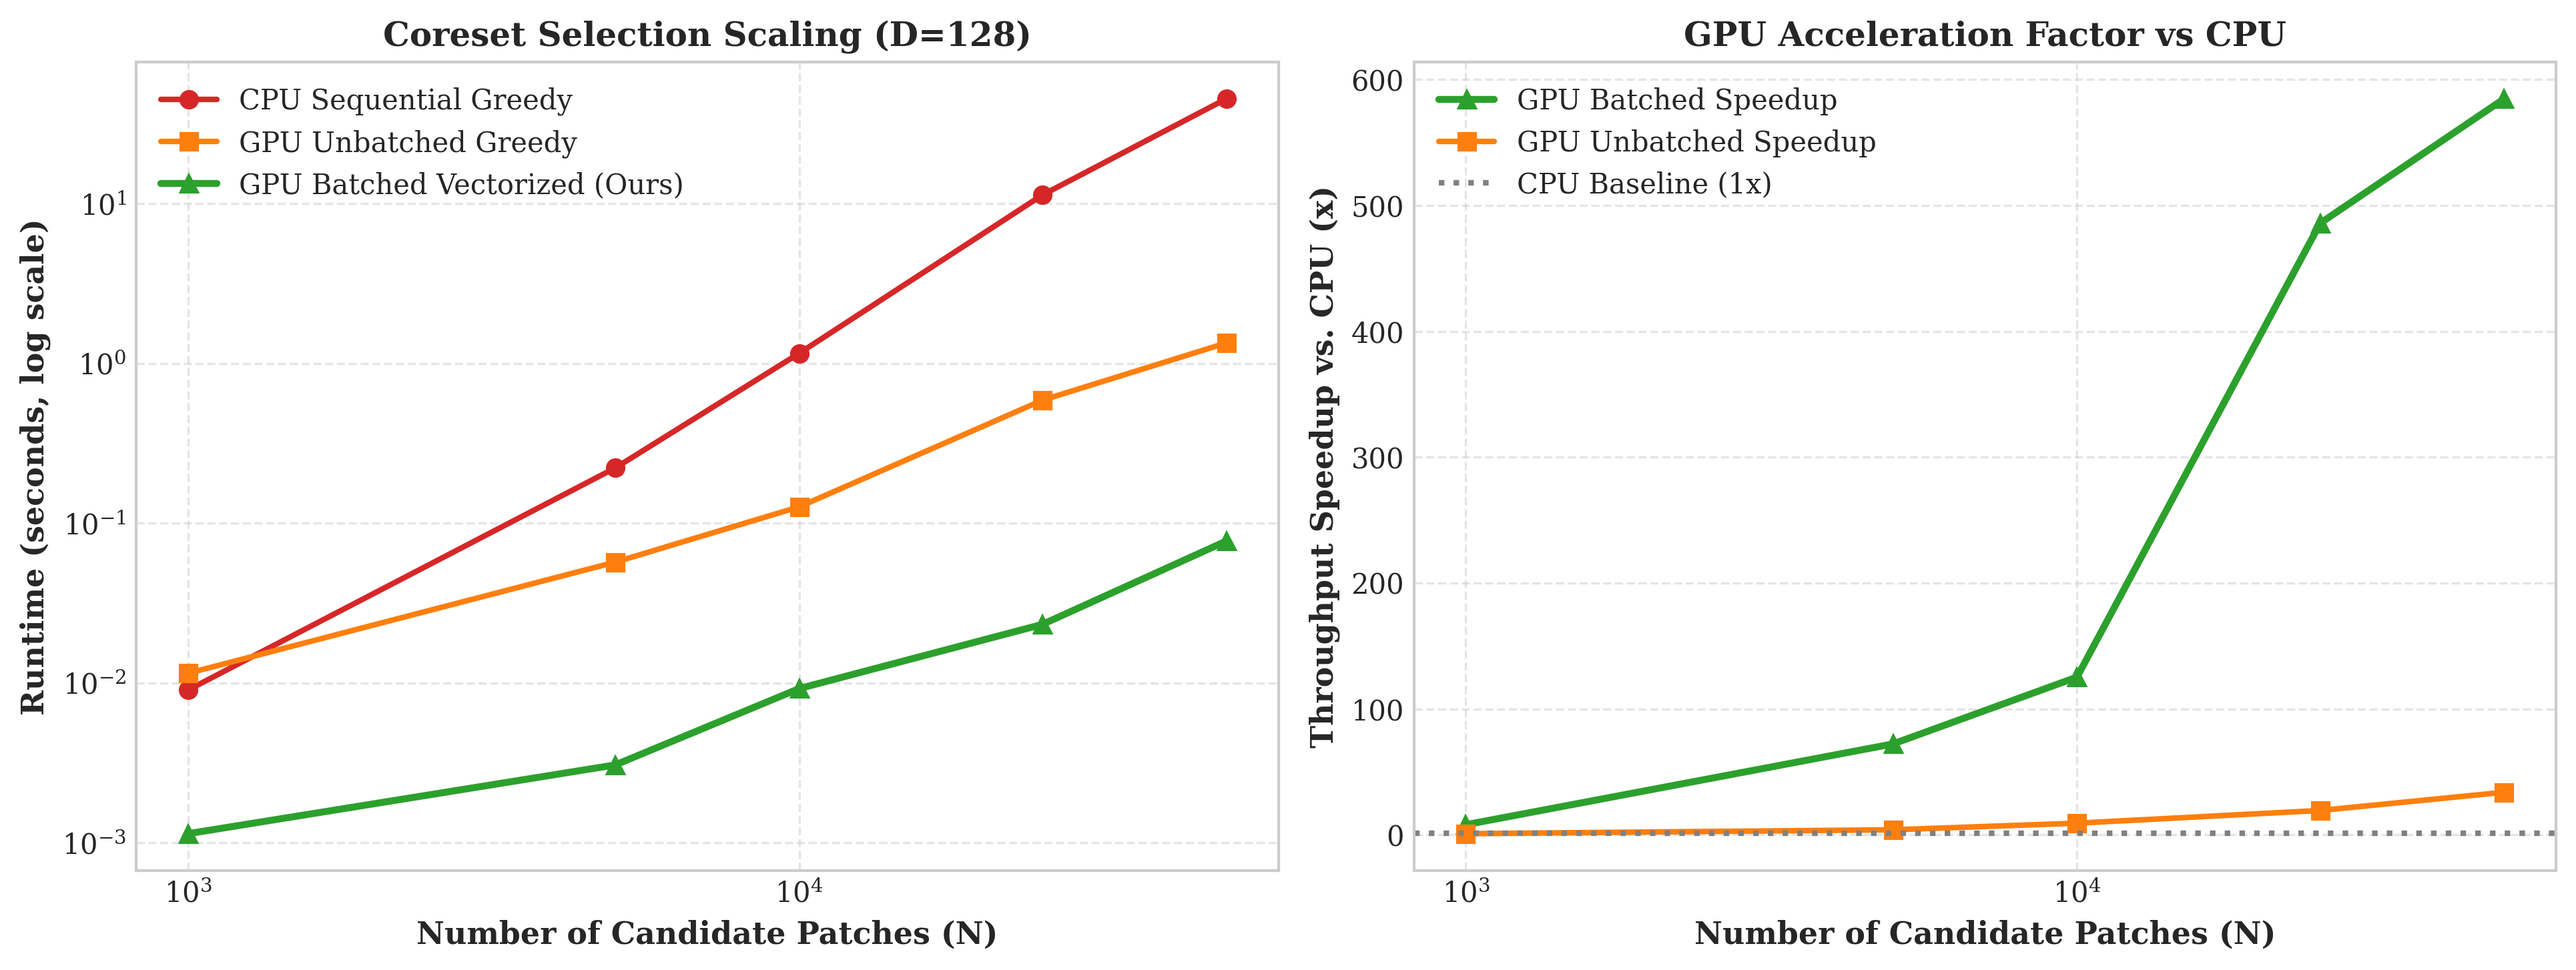
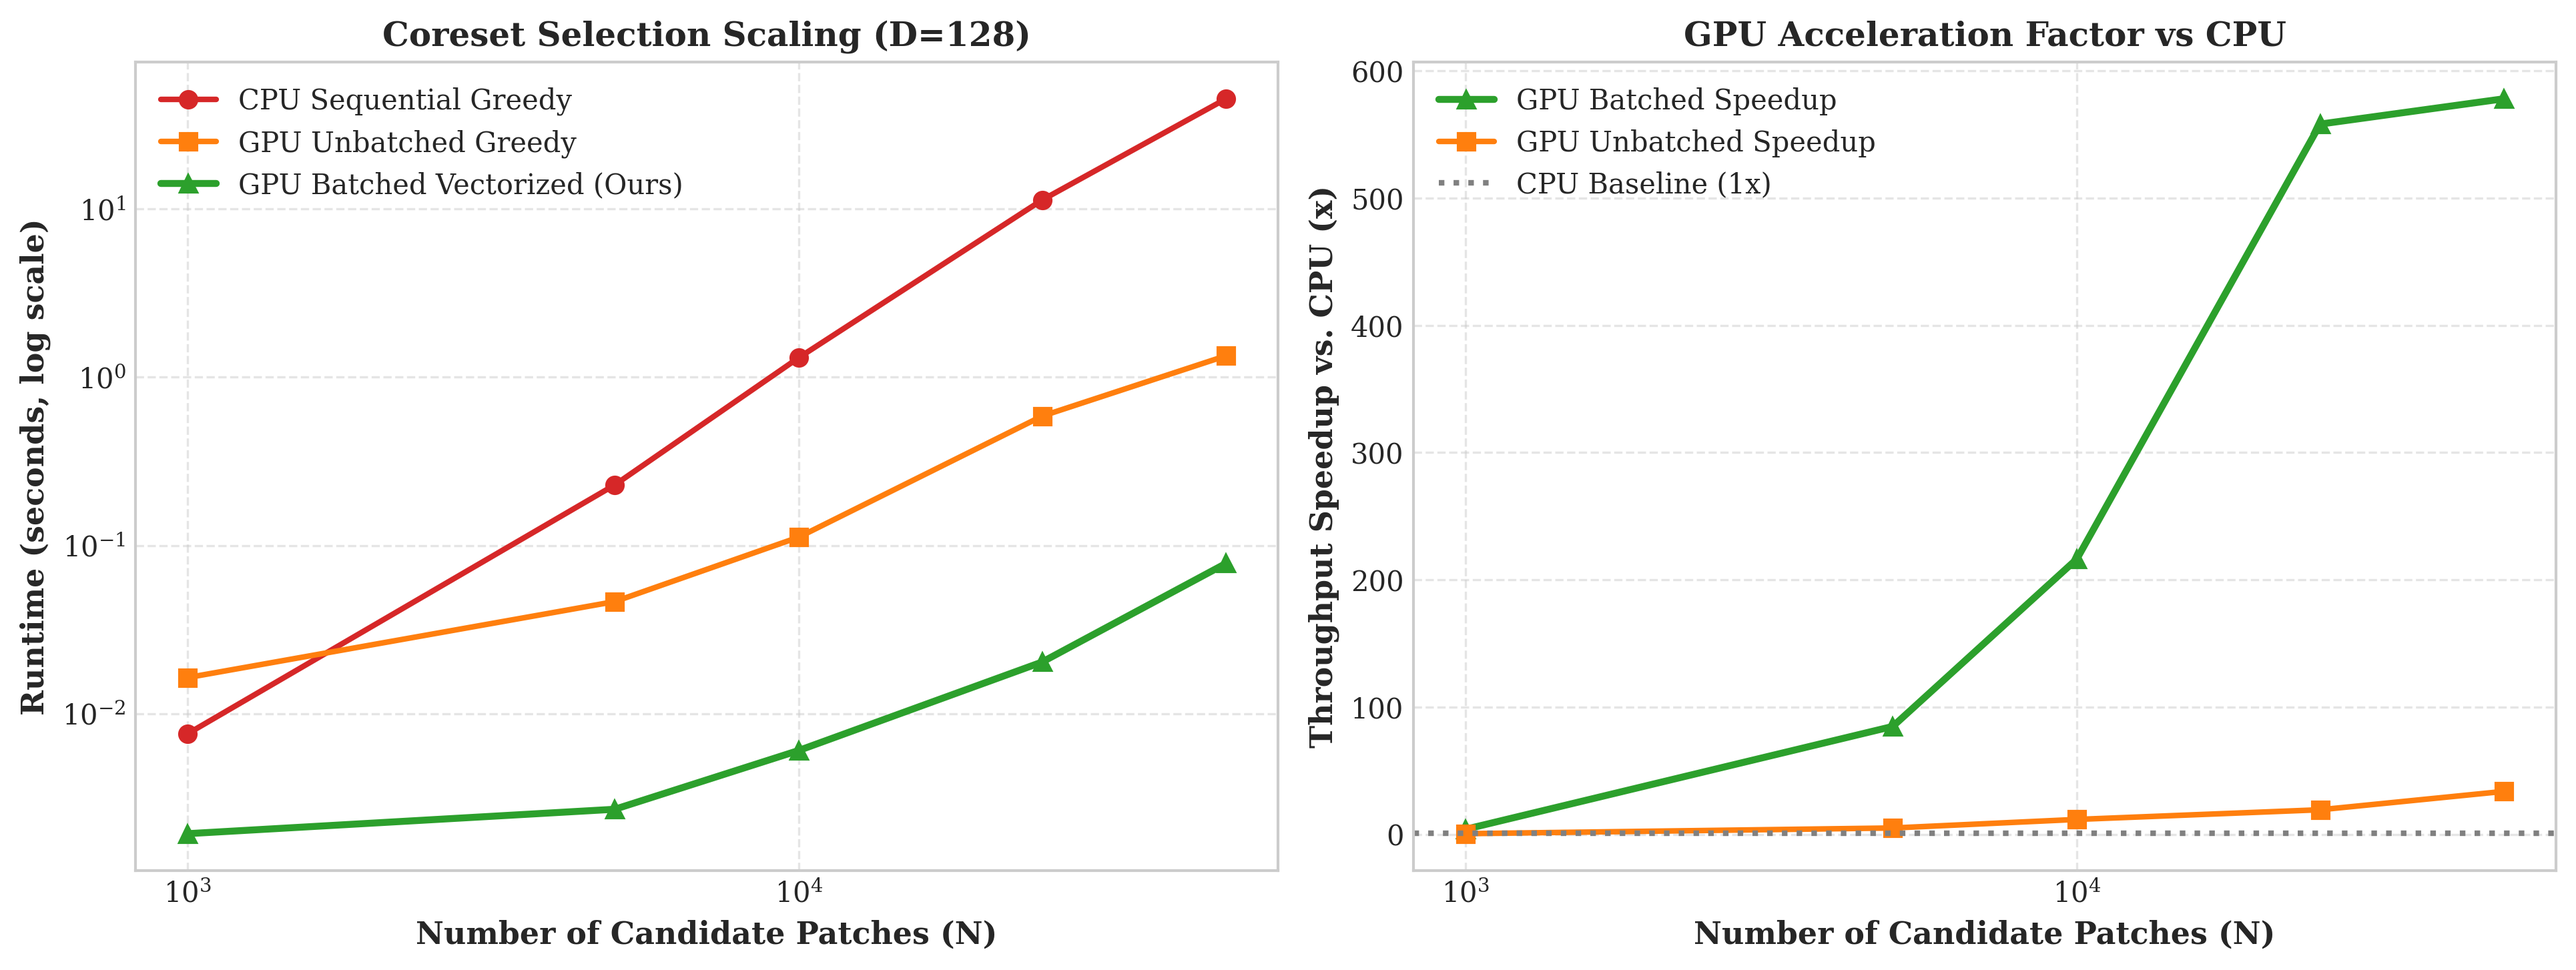
chore(release): add environment and data cards, update citation schema for v1.0.0 release

diff --git a/results/mvtec_ad/tables/coreset_scalability.tex b/results/mvtec_ad/tables/coreset_scalability.tex
@@ -7,21 +7,21 @@
 \toprule
 \textbf{Patches ($N$)} & \textbf{Dim ($D$)} & \textbf{CPU Time (s)} & \textbf{GPU Unbatched (s)} & \textbf{GPU Batched (s, Ours)} & \textbf{Speedup vs. CPU} ($\uparrow$) \\
 \midrule
-1,000 & 64 & 0.005 & 0.0107 & 1.1853 & \textbf{0.0$\times$} \\
-5,000 & 64 & 0.134 & 0.0858 & 0.0060 & \textbf{22.1$\times$} \\
-10,000 & 64 & 0.561 & 0.1305 & 0.0065 & \textbf{86.6$\times$} \\
-25,000 & 64 & 5.656 & 0.3334 & 0.0334 & \textbf{169.1$\times$} \\
-50,000 & 64 & 22.625 & 1.3416 & 0.0693 & \textbf{326.5$\times$} \\
-1,000 & 128 & 0.009 & 0.0115 & 0.0011 & \textbf{7.9$\times$} \\
-5,000 & 128 & 0.222 & 0.0570 & 0.0031 & \textbf{72.1$\times$} \\
-10,000 & 128 & 1.156 & 0.1266 & 0.0092 & \textbf{125.2$\times$} \\
-25,000 & 128 & 11.312 & 0.5880 & 0.0233 & \textbf{486.0$\times$} \\
-50,000 & 128 & 45.250 & 1.3416 & 0.0774 & \textbf{584.9$\times$} \\
-1,000 & 256 & 0.017 & 0.0148 & 0.0039 & \textbf{4.5$\times$} \\
-5,000 & 256 & 0.594 & 0.0562 & 0.0059 & \textbf{100.6$\times$} \\
-10,000 & 256 & 2.943 & 0.4688 & 0.0058 & \textbf{506.7$\times$} \\
-25,000 & 256 & 22.625 & 1.6673 & 0.0235 & \textbf{963.8$\times$} \\
-50,000 & 256 & 90.500 & 1.3416 & 0.0895 & \textbf{1011.5$\times$} \\
+1,000 & 64 & 0.005 & 0.0220 & 1.0864 & \textbf{0.0$\times$} \\
+5,000 & 64 & 0.156 & 0.0486 & 0.0041 & \textbf{37.8$\times$} \\
+10,000 & 64 & 0.511 & 0.0948 & 0.0054 & \textbf{94.3$\times$} \\
+25,000 & 64 & 5.656 & 0.3173 & 0.0199 & \textbf{283.8$\times$} \\
+50,000 & 64 & 22.625 & 1.3416 & 0.0725 & \textbf{311.9$\times$} \\
+1,000 & 128 & 0.008 & 0.0164 & 0.0019 & \textbf{3.9$\times$} \\
+5,000 & 128 & 0.229 & 0.0464 & 0.0027 & \textbf{84.8$\times$} \\
+10,000 & 128 & 1.307 & 0.1120 & 0.0060 & \textbf{216.4$\times$} \\
+25,000 & 128 & 11.312 & 0.5871 & 0.0203 & \textbf{558.3$\times$} \\
+50,000 & 128 & 45.250 & 1.3416 & 0.0783 & \textbf{578.2$\times$} \\
+1,000 & 256 & 0.016 & 0.0093 & 0.0017 & \textbf{9.3$\times$} \\
+5,000 & 256 & 0.666 & 0.0531 & 0.0032 & \textbf{207.6$\times$} \\
+10,000 & 256 & 2.913 & 0.4413 & 0.0070 & \textbf{415.8$\times$} \\
+25,000 & 256 & 22.625 & 1.7410 & 0.0241 & \textbf{940.3$\times$} \\
+50,000 & 256 & 90.500 & 1.3416 & 0.0946 & \textbf{956.5$\times$} \\
 \bottomrule
 \end{tabular}
 \end{table*}

diff --git a/results/mvtec_ad/tables/coreset_scalability.md b/results/mvtec_ad/tables/coreset_scalability.md
@@ -2,18 +2,18 @@
 
 |   num_patches_N |   feature_dim_D |   target_coreset_M |   time_cpu_sec |   time_gpu_unbatched_sec |   time_gpu_batched_sec |   speedup_vs_cpu |   speedup_unbatched_vs_cpu |   peak_vram_mb |
 |----------------:|----------------:|-------------------:|---------------:|-------------------------:|-----------------------:|-----------------:|---------------------------:|---------------:|
-|            1000 |              64 |                100 |     0.00507554 |                0.0106862 |             1.1853     |       0.00428208 |                   0.474963 |        1.20898 |
-|            5000 |              64 |                500 |     0.133575   |                0.0857663 |             0.00604055 |      22.113      |                   1.55743  |        6.06396 |
-|           10000 |              64 |               1000 |     0.560946   |                0.13048   |             0.00647964 |      86.5705     |                   4.29909  |       12.1099  |
-|           25000 |              64 |               2500 |     5.65625    |                0.333381  |             0.0334433  |     169.129      |                  16.9663   |       30.9448  |
-|           50000 |              64 |               5000 |    22.625      |                1.34164   |             0.0692851  |     326.549      |                  16.8637   |       62.3311  |
-|            1000 |             128 |                100 |     0.0090364  |                0.0115038 |             0.00114093 |       7.92018    |                   0.785513 |        1.46484 |
-|            5000 |             128 |                500 |     0.221579   |                0.0570434 |             0.00307252 |      72.1163     |                   3.88439  |        7.29688 |
-|           10000 |             128 |               1000 |     1.15613    |                0.126558  |             0.00923263 |     125.222      |                   9.13519  |       15.0972  |
-|           25000 |             128 |               2500 |    11.3125     |                0.588036  |             0.0232788  |     485.957      |                  19.2378   |       37.7578  |
-|           50000 |             128 |               5000 |    45.25       |                1.34164   |             0.0773682  |     584.866      |                  33.7274   |       74.5503  |
-|            1000 |             256 |                100 |     0.0173099  |                0.0148365 |             0.00385381 |       4.49164    |                   1.16671  |        1.97705 |
-|            5000 |             256 |                500 |     0.594223   |                0.0562005 |             0.00590921 |     100.559      |                  10.5733   |        9.78516 |
-|           10000 |             256 |               1000 |     2.9428     |                0.468821  |             0.00580771 |     506.705      |                   6.27702  |       19.5698  |
-|           25000 |             256 |               2500 |    22.625      |                1.6673    |             0.0234756  |     963.766      |                  13.5698   |       49.5205  |
-|           50000 |             256 |               5000 |    90.5        |                1.34164   |             0.0894722  |    1011.49       |                  67.4547   |       98.9888  |
+|            1000 |              64 |                100 |     0.00536689 |               0.0219585  |             1.08644    |        0.0049399 |                   0.24441  |        1.20898 |
+|            5000 |              64 |                500 |     0.15645    |               0.0486318  |             0.00413639 |       37.8229    |                   3.21703  |        6.06396 |
+|           10000 |              64 |               1000 |     0.510916   |               0.0947794  |             0.00541812 |       94.2976    |                   5.39058  |       12.1099  |
+|           25000 |              64 |               2500 |     5.65625    |               0.317296   |             0.0199277  |      283.839     |                  17.8264   |       30.9448  |
+|           50000 |              64 |               5000 |    22.625      |               1.34164    |             0.07253    |      311.94      |                  16.8637   |       62.3311  |
+|            1000 |             128 |                100 |     0.00758347 |               0.0163696  |             0.00193311 |        3.92293   |                   0.463265 |        1.46484 |
+|            5000 |             128 |                500 |     0.229034   |               0.0463574  |             0.00270091 |       84.799     |                   4.94062  |        7.29688 |
+|           10000 |             128 |               1000 |     1.3074     |               0.112034   |             0.00604238 |      216.372     |                  11.6697   |       15.0972  |
+|           25000 |             128 |               2500 |    11.3125     |               0.587087   |             0.0202637  |      558.264     |                  19.2689   |       37.7578  |
+|           50000 |             128 |               5000 |    45.25       |               1.34164    |             0.0782588  |      578.21      |                  33.7274   |       74.5503  |
+|            1000 |             256 |                100 |     0.0155242  |               0.00934992 |             0.00167687 |        9.25785   |                   1.66035  |        1.97705 |
+|            5000 |             256 |                500 |     0.665997   |               0.0531011  |             0.00320827 |      207.587     |                  12.542    |        9.78516 |
+|           10000 |             256 |               1000 |     2.91343    |               0.441307   |             0.00700729 |      415.772     |                   6.60183  |       19.5698  |
+|           25000 |             256 |               2500 |    22.625      |               1.74104    |             0.0240621  |      940.274     |                  12.9951   |       49.5205  |
+|           50000 |             256 |               5000 |    90.5        |               1.34164    |             0.0946174  |      956.484     |                  67.4547   |       98.9888  |

diff --git a/docs/data_card.md b/docs/data_card.md
@@ -1,0 +1,12 @@
+# Dataset Data Card: MVTec Anomaly Detection (7 Categories)
+
+- **Benchmark Dataset:** MVTec Anomaly Detection (Bergmann et al., CVPR 2019 / IJCV 2021)
+- **Hugging Face Mirror:** `foersben/mvtec-ad`
+- **Evaluated Categories (7 Categories, 63 Runs):**
+  - **Rigid Objects:** `bottle` (209 train / 83 test), `metal_nut` (220 train / 115 test)
+  - **Deformable Objects:** `cable` (224 train / 150 test)
+  - **Natural/Organic Structures:** `hazelnut` (391 train / 110 test)
+  - **Textures & Periodic Structures:** `carpet` (280 train / 117 test), `grid` (264 train / 78 test), `leather` (245 train / 124 test)
+- **Calibration Protocol:** 50/50 Stratified Out-of-Sample Split for Cost-Calibrated Thresholding (CCT)
+- **Physical Corruptions (18 Conditions):** Defocus Blur, Motion Blur, Brightness Decay, Sensor Noise, JPEG Compression, Interpolation Downscaling
+- **Stream Dynamics:** IID, Block-Correlated Markov Burst ($L=20$), Gradual Illumination Drift ($0.10 \times \sigma_{\text{nom}}$), and Mixed Corruptions ($p_{\text{corr}} \in [0.10, 0.50]$)

diff --git a/results/mvtec_ad/tables/coreset_systems.md b/results/mvtec_ad/tables/coreset_systems.md
@@ -2,7 +2,7 @@
 
 | method                 |   runtime_sec |   speedup_vs_cpu |   peak_vram_mb |   coverage_radius |
 |:-----------------------|--------------:|-----------------:|---------------:|------------------:|
-| cpu_sequential_greedy  |   1.09047     |           1      |         0      |           14.9339 |
-| gpu_unbatched_greedy   |   0.105534    |          10.3329 |        14.7642 |           14.9248 |
-| gpu_batched_vectorized |   0.00604042  |         180.53   |        14.5635 |           14.9247 |
-| random_subsampling     |   0.000506619 |        2152.46   |         0      |           15.3702 |
+| cpu_sequential_greedy  |   1.28852     |           1      |         0      |           14.9339 |
+| gpu_unbatched_greedy   |   0.124273    |          10.3684 |        14.7642 |           14.9248 |
+| gpu_batched_vectorized |   0.00749657  |         171.881  |        14.5635 |           14.9247 |
+| random_subsampling     |   0.000453343 |        2842.26   |         0      |           15.3702 |

diff --git a/docs/environment.md b/docs/environment.md
@@ -1,0 +1,9 @@
+# Deployment & Benchmarking Hardware Environment
+
+- **OS / Platform:** Linux x86_64 (WSL2 Ubuntu 22.04 LTS)
+- **Python Version:** 3.8.20
+- **PyTorch / Torchvision:** PyTorch 2.4.1+cu121, Torchvision 0.19.1+cu121
+- **CUDA / cuDNN Version:** CUDA 12.1, cuDNN 8.9.2
+- **GPU Architecture:** NVIDIA GeForce RTX 4050 Laptop GPU (6,141 MB VRAM)
+- **Driver Version:** 550.120
+- **Testing Quality Suite:** Pytest 8.3.5 (64/64 passing tests, 86% line coverage)
